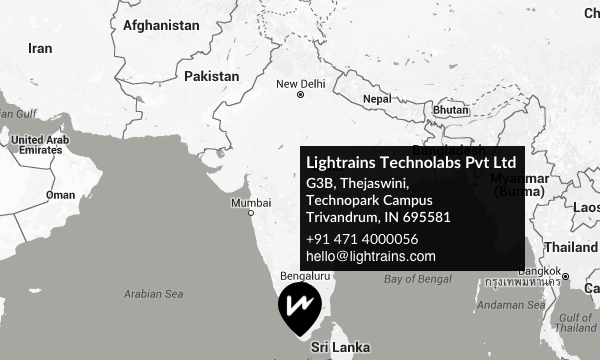
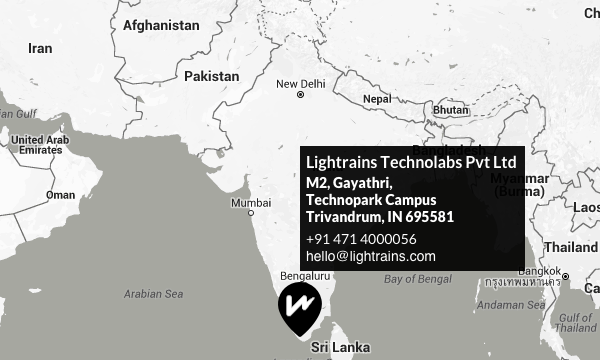
Added new address

Changed region(s): [[0.51, 0.4278, 0.87, 0.7028], [0.48, 0.825, 0.54, 0.8861]]

diff --git a/amp/blogs/what-is-ethereum/index.html b/amp/blogs/what-is-ethereum/index.html
@@ -237,7 +237,7 @@ Ethereum applications are resistant to many attacks including denial of service 
   <li><a href="https://en.wikipedia.org/wiki/Ethereum">wiki</a></li>
 </ul>
 
-<p><amp-img src="/assets/img/blog/what-is-ethereum.png" alt="What is Ethereum" class="ui image fluid" width="572" height="1609" layout="responsive"></amp-img></p>
+<p><amp-img src="/assets/img/blog/what-is-ethereum.png" alt="What is Ethereum" class="ui image fluid" layout="responsive"></amp-img></p>
 
     <a href="https://lightrains.com/blogs/what-is-ethereum" title="What is Ethereum" class="nonamp">Full Version of What is Ethereum</a>
   </div>

diff --git a/about/careers.html b/about/careers.html
@@ -188,7 +188,7 @@
   </a>
   <img src="https://lightrains.com/assets/img/lightrains-logo.png" itemprop="image" class="ohidden" alt="Lightrains Technolabs" />
  <div itemprop="address" itemscope="" itemtype="http://schema.org/PostalAddress">
-    <span itemprop="streetAddress">G3B, Thejaswini</span><br />
+    <span itemprop="streetAddress">M2, Gayathri</span><br />
     <span itemprop="postOfficeBoxNumber">Technopark Campus</span><br />
     <span itemprop="addressLocality">Trivandrum</span><br />
     <span itemprop="addressRegion">Kerala</span> -

diff --git a/about/contact.html b/about/contact.html
@@ -154,7 +154,7 @@
   </a>
   <img src="https://lightrains.com/assets/img/lightrains-logo.png" itemprop="image" class="ohidden" alt="Lightrains Technolabs"/>
  <div itemprop="address" itemscope itemtype="http://schema.org/PostalAddress">
-    <span itemprop="streetAddress">G3B, Thejaswini</span><br>
+    <span itemprop="streetAddress">M2, Gayathri</span><br>
     <span itemprop="postOfficeBoxNumber">Technopark Campus</span><br>
     <span itemprop="addressLocality">Trivandrum</span><br>
     <span itemprop="addressRegion">Kerala</span> -
